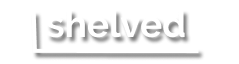
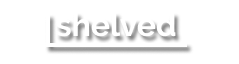
style chnges

diff --git a/web/src/views/Components/Navbar.js b/web/src/views/Components/Navbar.js
@@ -15,6 +15,8 @@ import MailIcon from '@material-ui/icons/Mail';
 import NotificationsIcon from '@material-ui/icons/Notifications';
 import MoreIcon from '@material-ui/icons/MoreVert';
 import Divider from "@material-ui/core/Divider";
+import {useSelector} from "react-redux";
+import Button from "@material-ui/core/Button";
 
 const drawerWidth = 240;
 const useStyles = makeStyles((theme) => ({
@@ -50,7 +52,7 @@ const useStyles = makeStyles((theme) => ({
             width: 'auto',
         },
         height: '100%',
-        border:'thin solid #cecece'
+        border: 'thin solid #cecece'
     },
     searchIcon: {
         padding: theme.spacing(0, 2),
@@ -81,7 +83,7 @@ const useStyles = makeStyles((theme) => ({
         [theme.breakpoints.up('md')]: {
             display: 'flex',
         },
-        paddingRight :'1%'
+        paddingRight: '1%'
     },
     sectionMobile: {
         display: 'flex',
@@ -100,9 +102,14 @@ const useStyles = makeStyles((theme) => ({
         height: 28,
         margin: 4,
     },
+    button: {
+        margin: theme.spacing(1),
+        textTransform: 'lowercase'
+    },
 }));
 
 export function NavBar() {
+    const user = useSelector(state => state.authentication.user);
     const classes = useStyles();
     const [anchorEl, setAnchorEl] = React.useState(null);
     const [mobileMoreAnchorEl, setMobileMoreAnchorEl] = React.useState(null);
@@ -190,14 +197,14 @@ export function NavBar() {
                 <Toolbar>
 
                     <IconButton className={classes.iconButton} aria-label="menu">
-                        <SearchIcon />
+                        <SearchIcon/>
                     </IconButton>
                     <InputBase
                         className={classes.input}
                         placeholder="Search Google Maps"
-                        inputProps={{ 'aria-label': 'search google maps' }}
+                        inputProps={{'aria-label': 'search google maps'}}
                     />
-                    <Divider className={classes.divider} orientation="vertical" />
+                    <Divider className={classes.divider} orientation="vertical"/>
                     <div className={classes.grow}/>
                     <div className={classes.sectionDesktop}>
                         <IconButton aria-label="show 17 new notifications" style={{color: "#9B59B6"}}>
@@ -205,17 +212,25 @@ export function NavBar() {
                                 <NotificationsIcon/>
                             </Badge>
                         </IconButton>
-                        <IconButton
-                            edge="end"
-                            aria-label="account of current user"
-                            aria-controls={menuId}
-                            aria-haspopup="true"
+
+                        <Button
+                            color="default"
+                            className={classes.button}
                             onClick={handleProfileMenuOpen}
-                            color="inherit"
-                            style={{color: "#9B59B6"}}
+                            startIcon={<IconButton
+                                edge="end"
+                                aria-label="account of current user"
+                                aria-haspopup="true"
+                                color="inherit"
+                                style={{color: "#9B59B6"}}
+                            >
+                                <AccountCircle/>
+                            </IconButton>}
                         >
-                            <AccountCircle/>
-                        </IconButton>
+                            {user.username}
+                        </Button>
+
+
                     </div>
                     <div className={classes.sectionMobile}>
                         <IconButton

diff --git a/web/src/views/HomePage/CategoryVIew.jsx b/web/src/views/HomePage/CategoryVIew.jsx
@@ -1,6 +1,18 @@
 import Typography from "@material-ui/core/Typography";
 import React from "react";
 import {makeStyles} from "@material-ui/core/styles";
+import Paper from "@material-ui/core/Paper";
+import Grid from "@material-ui/core/Grid";
+import FormControl from "@material-ui/core/FormControl";
+import InputLabel from "@material-ui/core/InputLabel";
+import Select from "@material-ui/core/Select";
+import MenuItem from "@material-ui/core/MenuItem";
+import ControlPointIcon from "@material-ui/icons/ControlPoint";
+import Drawer from "@material-ui/core/Drawer";
+import {Box} from "@material-ui/core";
+import FacebookIcon from "@material-ui/icons/Facebook";
+import TwitterIcon from "@material-ui/icons/Twitter";
+import Button from "@material-ui/core/Button";
 
 const useStyles = makeStyles((theme) => ({
     // necessary for content to be below app bar
@@ -10,15 +22,72 @@ const useStyles = makeStyles((theme) => ({
         backgroundColor: theme.palette.background.default,
         padding: theme.spacing(3),
     },
+    formControl: {
+        margin: theme.spacing(1),
+        minWidth: 200,
+        backgroundColor: 'white'
+    },
+    createNew: {},
+    addButtonTop: {
+        color: '#9B59B6',
+        fontWeight: 'bold',
+        height: 45,
+        width: 45,
+        paddingBottom: '6%',
+        alignSelf: "center"
+    },
+    button:{
+        textTransform: 'capitalize',
+        color:'#9B59B6',
+        fontWeight:'bold'
+    }
 }));
 
 export function CategoryVIew() {
     const classes = useStyles();
-
+    const [age, setAge] = React.useState('');
+    const handleChange = (event) => {
+        setAge(event.target.value);
+    };
 
     return (
         <main className={classes.content}>
             <div className={classes.toolbar}/>
+
+            <Grid container spacing={3}>
+
+                <Grid item xs={12} sm={4}>
+                    <FormControl variant="outlined" className={classes.formControl}>
+                        <InputLabel id="board-sort">Recent Boards</InputLabel>
+                        <Select
+                            labelId="board-sort"
+                            id="board-sort"
+                            value={age}
+                            onChange={handleChange}
+                            label="Recent Boards"
+                        >
+                            <MenuItem value="">
+                                <em>None</em>
+                            </MenuItem>
+                            <MenuItem value={10}>Ten</MenuItem>
+                            <MenuItem value={20}>Twenty</MenuItem>
+                            <MenuItem value={30}>Thirty</MenuItem>
+                        </Select>
+                    </FormControl>
+                </Grid>
+                <Grid item xs={12} sm={8} container
+                      direction="row-reverse"
+                      justify="flex-start"
+                      alignItems="center" >
+                    <Button
+                        color="default"
+                        className={classes.button}
+                        startIcon={<ControlPointIcon/>}
+                    >
+                        Create new board
+                    </Button>
+                </Grid>
+            </Grid>
             <Typography paragraph>
                 Lorem ipsum dolor sit amet, consectetur adipiscing elit, sed do eiusmod tempor incididunt
                 ut labore et dolore magna aliqua. Rhoncus dolor purus non enim praesent elementum

diff --git a/web/src/resources/css/Signup.css b/web/src/resources/css/Signup.css
@@ -1,107 +1,6 @@
 @import url('https://fonts.googleapis.com/css?family=Jura:400');
-#entry-page {
-    font-family: Jura, Arial;
+body {
+    font-family: Jura, Arial !important;
     font-weight: 400;
 }
 
-section#entry-page form button#formButton
-{
-        background: #a770ef; /* fallback for old browsers */
-        background: -webkit-linear-gradient(to right, #a770ef, #cf8bf3, #fdb99b); /* Chrome 10-25, Safari 5.1-6 */
-        background: linear-gradient(to right, #a770ef, #cf8bf3, #fdb99b); /* W3C, IE 10+/ Edge, Firefox 16+, Chrome 26+, Opera 12+, Safari 7+ */
-
-}
-section#entry-page form {
-    grid-column: 2;
-    grid-row: 2;
-    display: grid;
-    grid-gap: 10px;
-    margin: auto 0;
-    padding: 20px;
-    background-color: rgba(255, 255, 255, 0.9);
-    border-radius: 10px;
-    box-shadow: 0 32px 64px rgba(0, 0, 0, 0.2);
-}
-section#entry-page form h2 {
-    margin-bottom: 5px;
-    text-align: center;
-    text-shadow: 0 4px 16px #fff;
-    font-size: 30px;
-    font-weight: 100;
-}
-section#entry-page form fieldset {
-    margin: 0;
-    background-color: #fff;
-    border: none;
-    border-radius: 5px;
-    box-shadow: 0 1px 3px rgba(0, 0, 0, 0.2);
-}
-section#entry-page form fieldset legend {
-    padding: 5px;
-    background-color: #fff;
-    border-radius: 5px;
-}
-section#entry-page form fieldset ul {
-    margin: 0;
-    padding: 0;
-}
-section#entry-page form fieldset ul li {
-    display: grid;
-    align-items: center;
-    margin: 10px;
-}
-section#entry-page form fieldset ul li a {
-    color: #02c;
-}
-section#entry-page form fieldset ul li em {
-    grid-column: span 2;
-    text-align: center;
-    padding: 5px;
-}
-section#entry-page form fieldset ul li label {
-    text-align: left;
-    padding-bottom: 2px;
-}
-section#entry-page form fieldset ul li input {
-    padding: 5px;
-    border: 1px solid #ddd;
-    border-radius: 5px;
-}
-section#entry-page form fieldset ul li input:hover {
-    border: 1px solid #aaf;
-}
-section#entry-page form button {
-    padding: 10px;
-    border: 1px solid rgba(0, 0, 0, 0);
-    border-radius: 5px;
-    background: #fff;
-    box-shadow: 0 1px 3px rgba(0, 0, 0, 0.2);
-}
-section#entry-page form button:hover {
-    background-color: #eef;
-    border: 1px solid #aaf;
-}
-@media only screen and (min-width: 420px) {
-    form h2 {
-        font-size: 40px;
-    }
-    form fieldset ul li {
-        grid-template-columns: 100px 1fr;
-    }
-    form fieldset ul li label {
-        padding-right: 10px;
-        padding-bottom: 0;
-        text-align: right !important;
-    }
-}
-@keyframes Gradient {
-    0% {
-        background-position: 0% 50%;
-    }
-    50% {
-        background-position: 100% 50%;
-    }
-    100% {
-        background-position: 0% 50%;
-    }
-}

diff --git a/web/src/views/Components/SideBar.js b/web/src/views/Components/SideBar.js
@@ -43,7 +43,8 @@ const useStyles = makeStyles((theme) => ({
         backgroundColor: '#8E44AD',
         ...theme.mixins.toolbar,
         minHeight: '90px'
-    }, bottomToolbar: {
+    },
+    bottomToolbar: {
         backgroundColor: '#8E44AD',
         ...theme.mixins.toolbar,
         bottom: 0,
@@ -53,7 +54,7 @@ const useStyles = makeStyles((theme) => ({
     listItem: {
         color: 'white',
         fontWeight: 'bold',
-        height: 70
+        height: 55
     },
     recentListItem: {
         color: 'white',

diff --git a/web/src/index.html b/web/src/index.html
@@ -1,10 +1,15 @@
 <!DOCTYPE html>
 <html lang="en">
 <meta name="viewport" content="width=device-width, initial-scale=1.0">
+<link href='https://fonts.googleapis.com/css?family=Raleway' rel='stylesheet'>
+<link href="https://fonts.googleapis.com/css?family=Titillium+Web:300,400,700" rel="stylesheet">
 <style>
     html, body {
     margin: 0;
     height: 100%;
+    }
+    body {
+        font-family: 'Titillium Web', sans-serif
     }
 </style>
 <head>

diff --git a/api/app.py b/api/app.py
@@ -11,8 +11,10 @@ from flask_cors import CORS
 app = Flask(__name__)
 CORS(app)
 
-app.config.from_envvar('ENV_FILE_LOCATION')
-
+JWT_SECRET_KEY = '0BC2zAA09nfH%%URaXh#N1a&71'
+MONGODB_SETTINGS = {
+    'host': 'mongodb://localhost/til'
+}
 api = Api(app, errors=errors)
 bcrypt = Bcrypt(app)
 jwt = JWTManager(app)
@@ -29,3 +31,4 @@ app.config['JWT_BLACKLIST_TOKEN_CHECKS'] = ['access', 'refresh']
 initialize_db(app)
 initialize_routes(api)
 app.debug = True
+app.run(port=5000)
